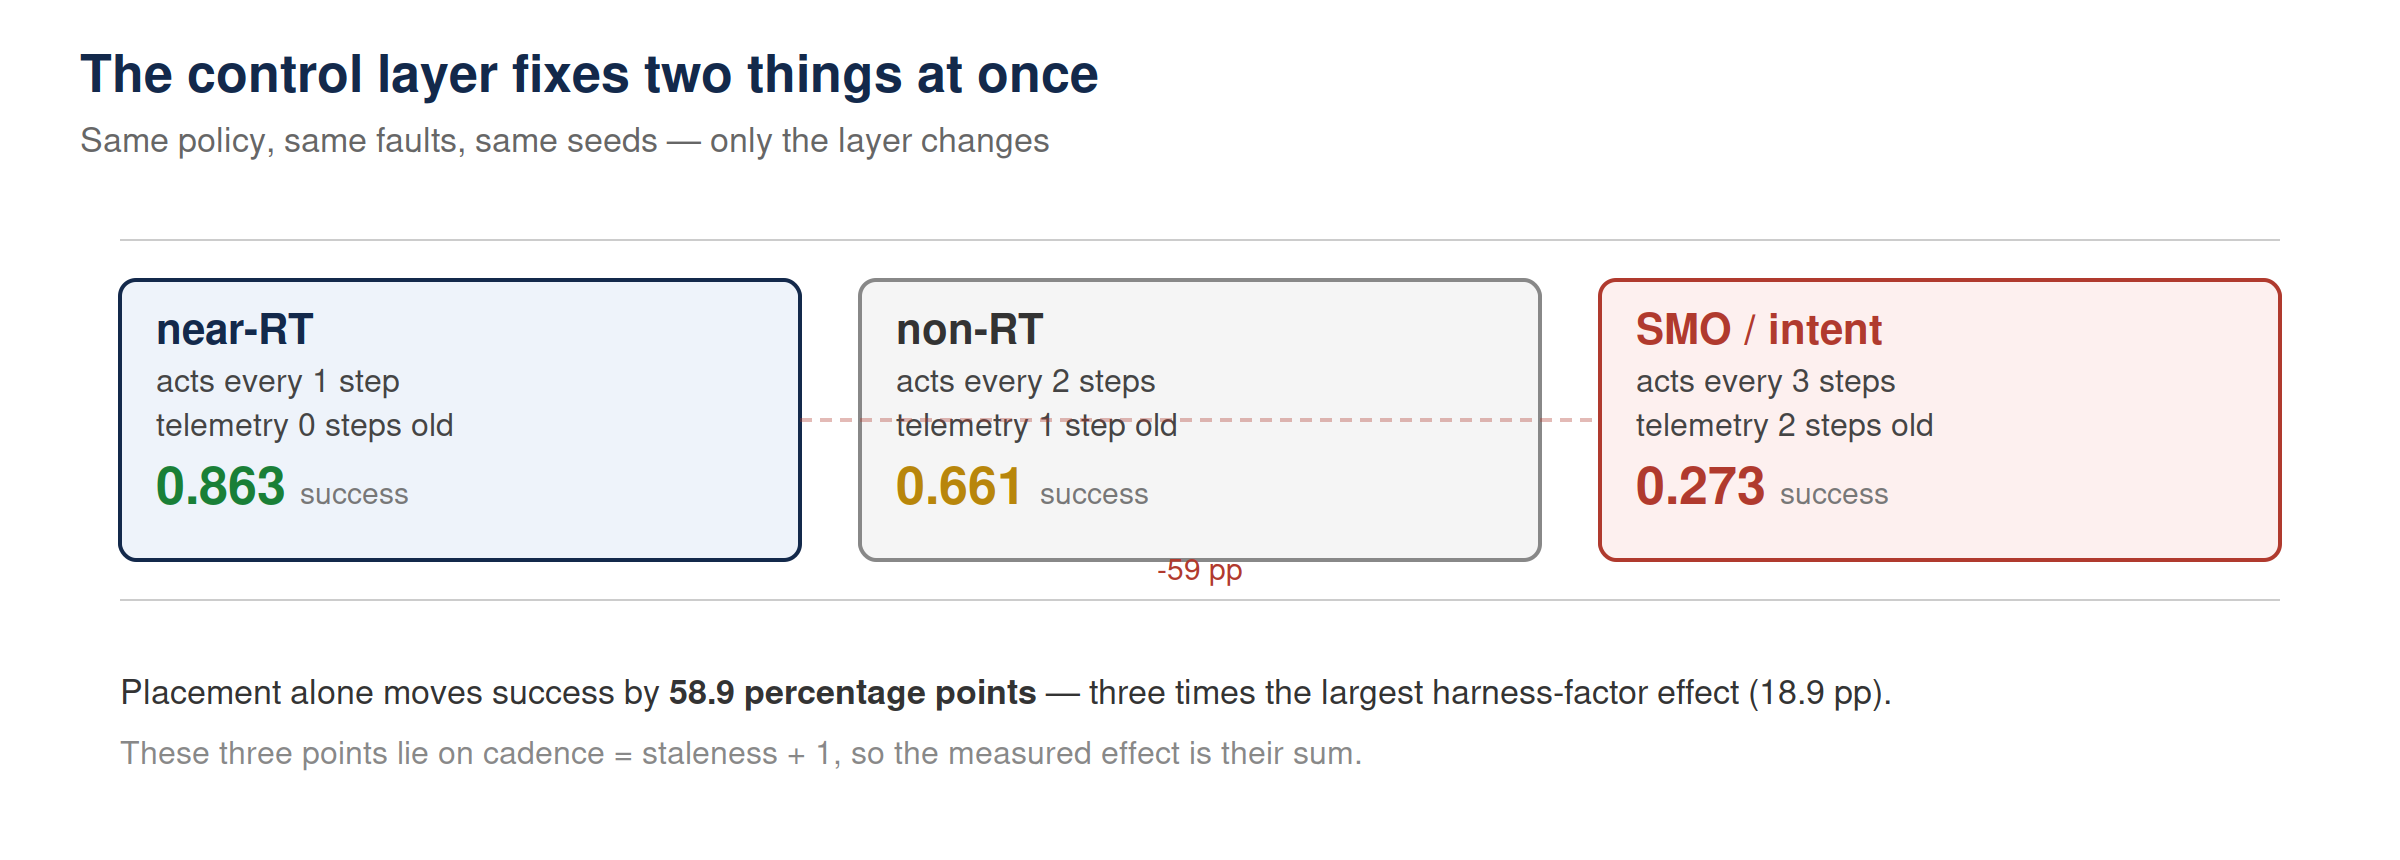
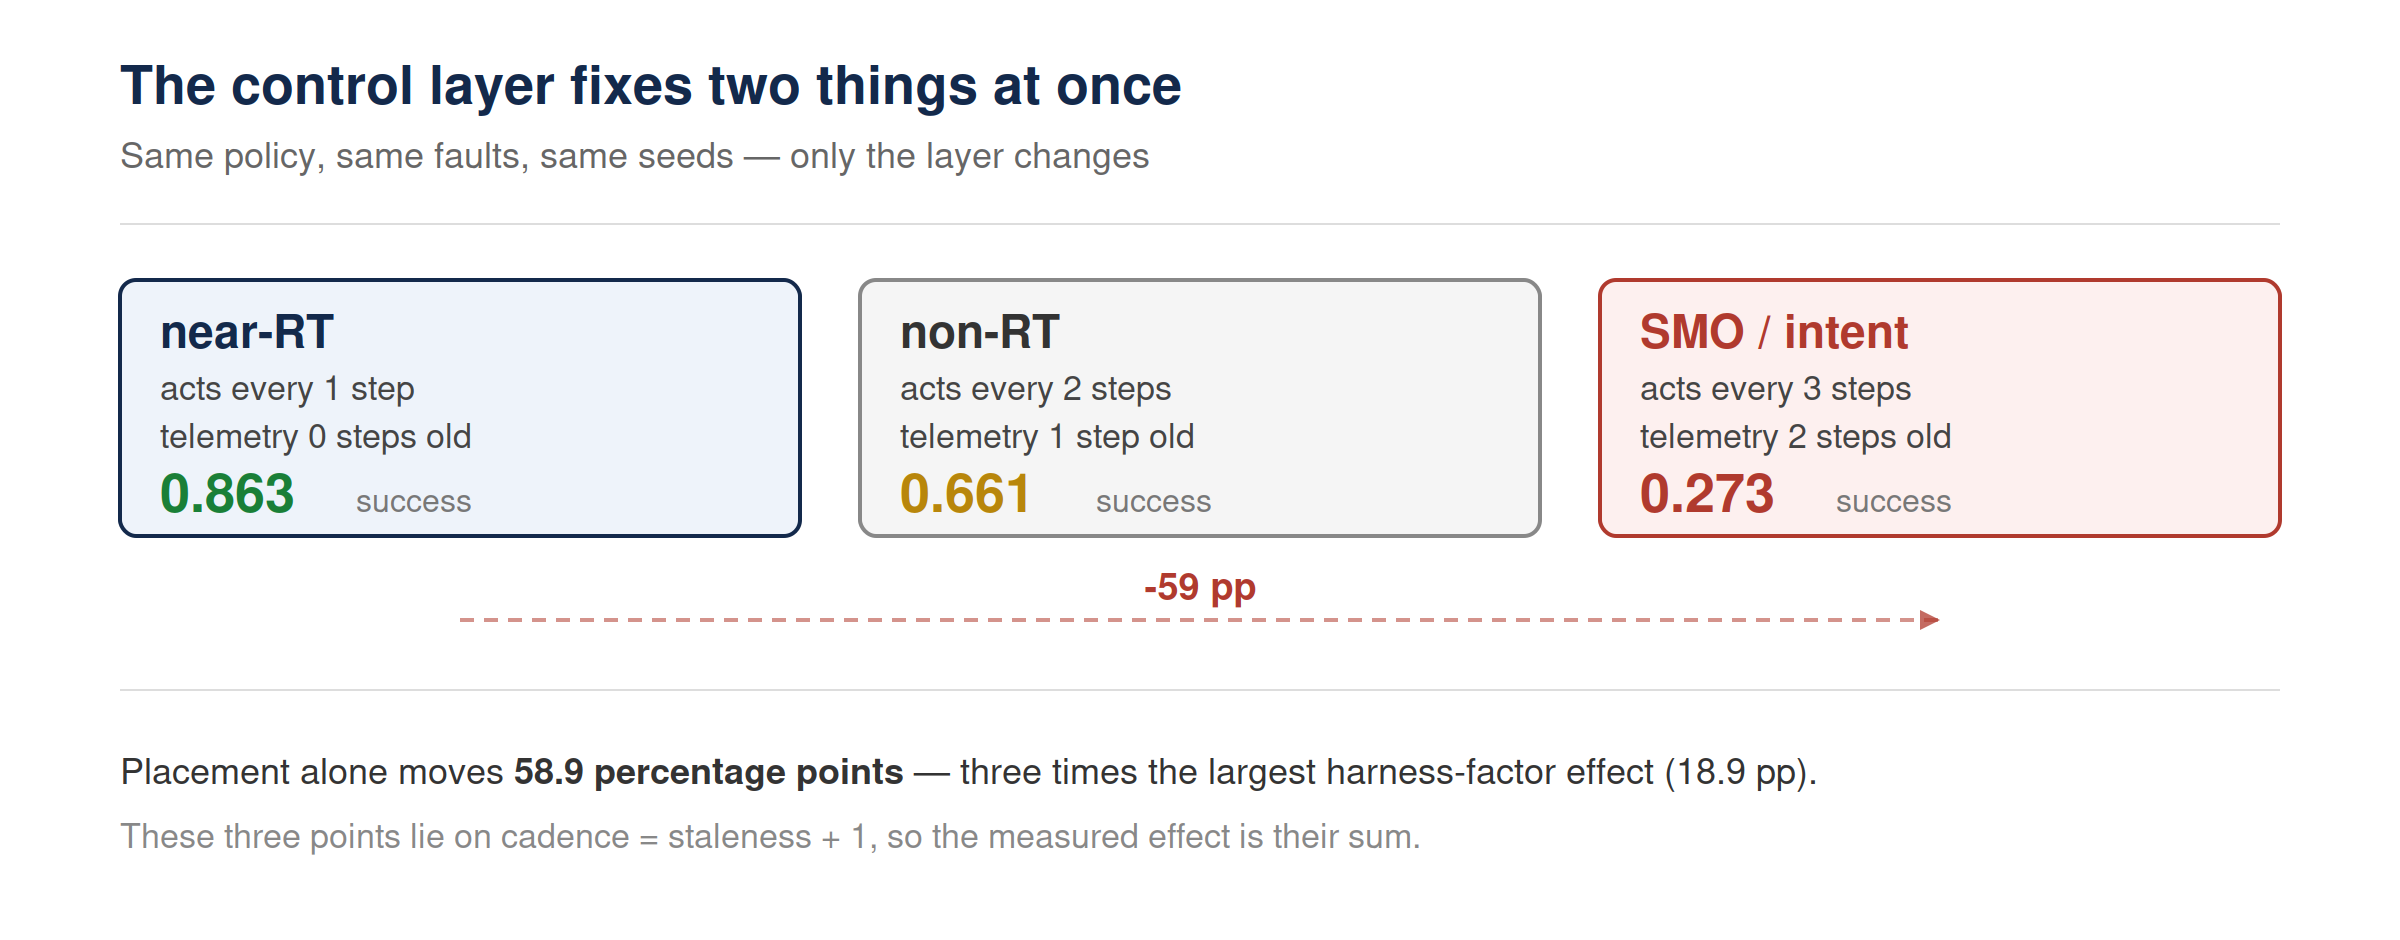
Add Chinese figures and fix the layer-diagram alignment
README.zh-CN.md now uses Chinese figures: a translated layer diagram and a
translated version of the paper's result figure (axis labels only; the O-RAN
layer names and scenario IDs stay in English as proper nouns).

The layer diagram also fixes a layout fault in the previous version: the arrow
ran through the telemetry labels and its -59 pp annotation was detached. The
arrow now sits below the three boxes with the annotation on the line.

diff --git a/README.zh-CN.md b/README.zh-CN.md
@@ -12,7 +12,7 @@
 研究固定任务、harness 配置与控制器，**只改变智能体执行所在的控制层**，
 而「层」纯粹由**决策节奏**（decision cadence）与**遥测陈旧度**（telemetry staleness）定义。
 
-![控制层一次固定了两件事](docs/figures/layers.png)
+![控制层一次固定了两件事](docs/figures/layers-zh.png)
 
 ---
 
@@ -38,7 +38,7 @@ python3 run_demo.py demo-live
 现场重算整项析因实验（笔记本上约 9 秒），打印层表，再打印已发布的语言模型表。
 每一个打印出来的数字，要么是当场重算的，要么读自随附的 CSV。
 
-![核心结果](docs/figures/result.png)
+![核心结果](docs/figures/result-zh.png)
 
 *左：每层的各场景成功率与合并均值。右：步预算扫描 —— 预算不再成为约束时，三层收敛。*
 
